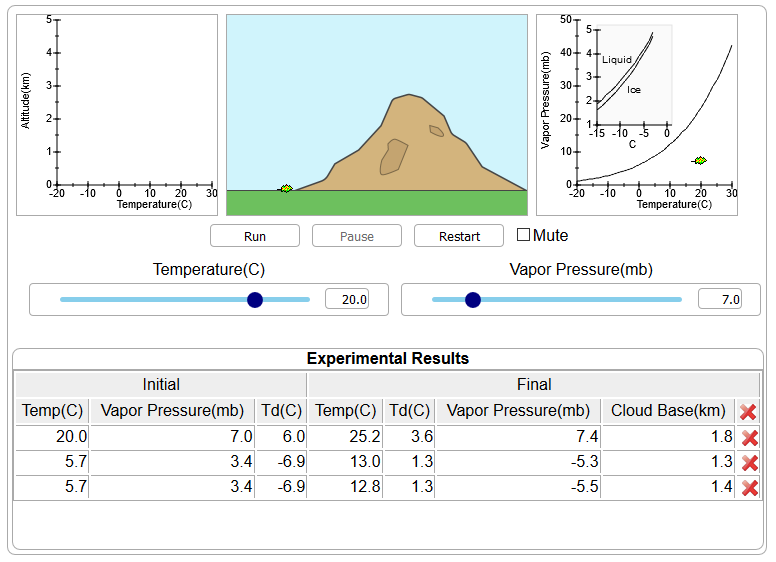
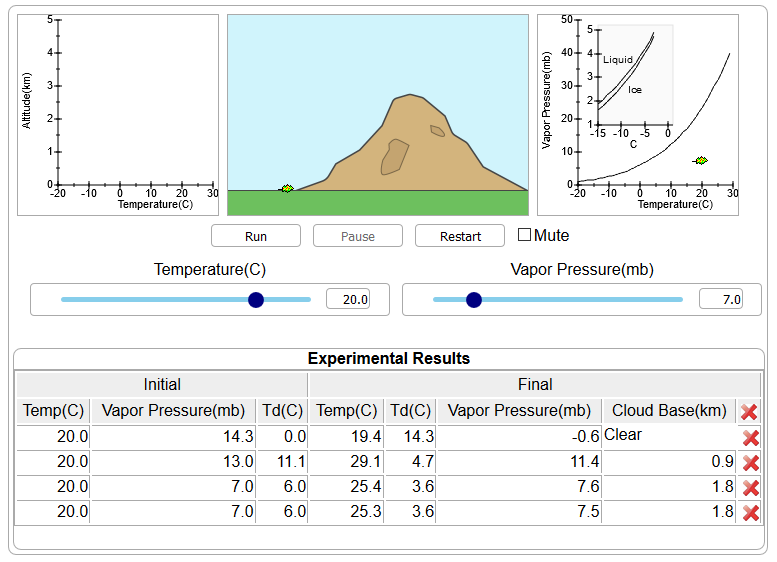
modified saturation graph to add ice saturation below 0

diff --git a/src/sims/teambuilder/main.js b/src/sims/teambuilder/main.js
@@ -1,0 +1,106 @@
+createjs.MotionGuidePlugin.install()
+createjs.Sound.registerPlugins([createjs.WebAudioPlugin, createjs.HTMLAudioPlugin, createjs.FlashAudioPlugin])
+createjs.Ticker.framerate = 10
+/*
+ * Given a list of students each which has one or more catsize categories, assign them to teams so that each
+ * team has one or more representatives from each category.
+ * 
+ * The algorithm begins by creating an array of category_team indices. Each category team index represents the next team that
+ * doesn't have at least one student in that category. 
+ * 
+ * For each student, we look for a team that does not have a member in one of the categories this student represents.
+ * If there are none, the student is added to the first team that does not yet have teamsize members.
+ * 
+ * At completion all students have been considered and added to a team.  The teams array contains the team membership.
+ */
+class Student {
+	constructor(name,categories) {
+		this.name = name
+		this.categories = categories // array of category indices. Example: [0,3] for category 0 and 3
+	}
+}
+
+class Team {
+	constructor(id,catsize,teamsize) {
+		this.id = id
+		this.catsize = catsize
+		this.teamsize = teamsize
+		this.students = []
+		this.catcnt = [] // number students in each category
+		for (let c = 0; c < catsize; c++) this.catcnt.concat(0)
+	}
+	
+	isFull() { return this.students.length == this.teamsize }
+	
+	addStudent(s) { 
+		this.students.concat(s)
+		for (let c = 0; c < s.categories.length; c++)
+			this.catcnt[s.categories(c)]++
+	}
+	
+	toString() {
+		let str = "Team "+this.id+":\n"
+		str += "Students:"
+		for (let s = 0; s < this.students.length; s++) {
+			str += s + ":["
+			for (let c = 0; c < s.categories.length; c++)
+				str += s.categories[c]+" "
+			str += "] "
+		}
+		str += "\nCategory Counts:"
+		for (let c = 0; c < s.categories.length; c++)
+			str += c + ":" + this.catcnt[c] + " "
+		str += "\n"
+		return str
+	}
+}
+
+class TeamBuilder {
+	constructor(students,catsize,teamsize) {
+		this.students = students
+		this.catsize = catsize
+		this.teamsize = teamsize
+		this.nteams = students.length/teamsize + 1
+		this.teams = []
+		for (let t = 0; t < nteams; t++) this.teams.concat(new Team(t,catsize,teamsize))
+		this.category_team = []
+		for (let c = 0; c < catsize; c++) this.category_team.concat(0)
+	}
+	
+	populate() {
+		for (let s = 0; s < students.length; s++) {
+			let student = students[s]
+			let team = -1
+			for (let i = 0; i < student.categories.length; i++) {
+				let c = student.categories[i]
+				while (this.teams[this.category_team[c] % this.catsize].isFull()) this.category_team[c]++
+				team = this.category_team[c]++
+				// Add student if the non-full team doesn't have the category otherwise move to next category
+				if (this.teams[team].catcnt[c] == 0) {
+					this.teams[team].addStudent(s)
+					break
+				}
+			}
+			// all teams have at least one member in each category of this student so add student to first non-full team
+			if (team >= 0) continue
+			for (let t = 0;t < this.nteams; t++)
+				if (!this.teams[t].isFull()) {
+					this.teams[t].addStudent(s)
+					break
+				}									
+		}
+	}
+	
+	getTeams() { return this.teams }	
+}
+
+function assign() {
+	let students = []
+	for (let s = 0; s < 100; s++) {
+		let domains = []
+		students.concat(new Student("s"+s,domains))
+	}
+	let builder = new TeamBuilder(students,6)
+	builder.assign()
+	builder.getTeams().forEach(t -> console.log(t.toString()))
+}

diff --git a/src/sims/mtnsim/main.js b/src/sims/mtnsim/main.js
@@ -187,7 +187,8 @@ class ETGraph extends Graph {
 	}
 	
 	plotSaturation() {
-        for (let t = this.xaxis.min; t <= this.xaxis.max; t++) this.plot(t,saturation(t))
+        for (let t = this.xaxis.min; t < 0; t++) this.plot(t,icesaturation(t))
+        for (let t = 0; t < this.xaxis.max; t++) this.plot(t,saturation(t))
         this.endPlot()
 	}
 	
